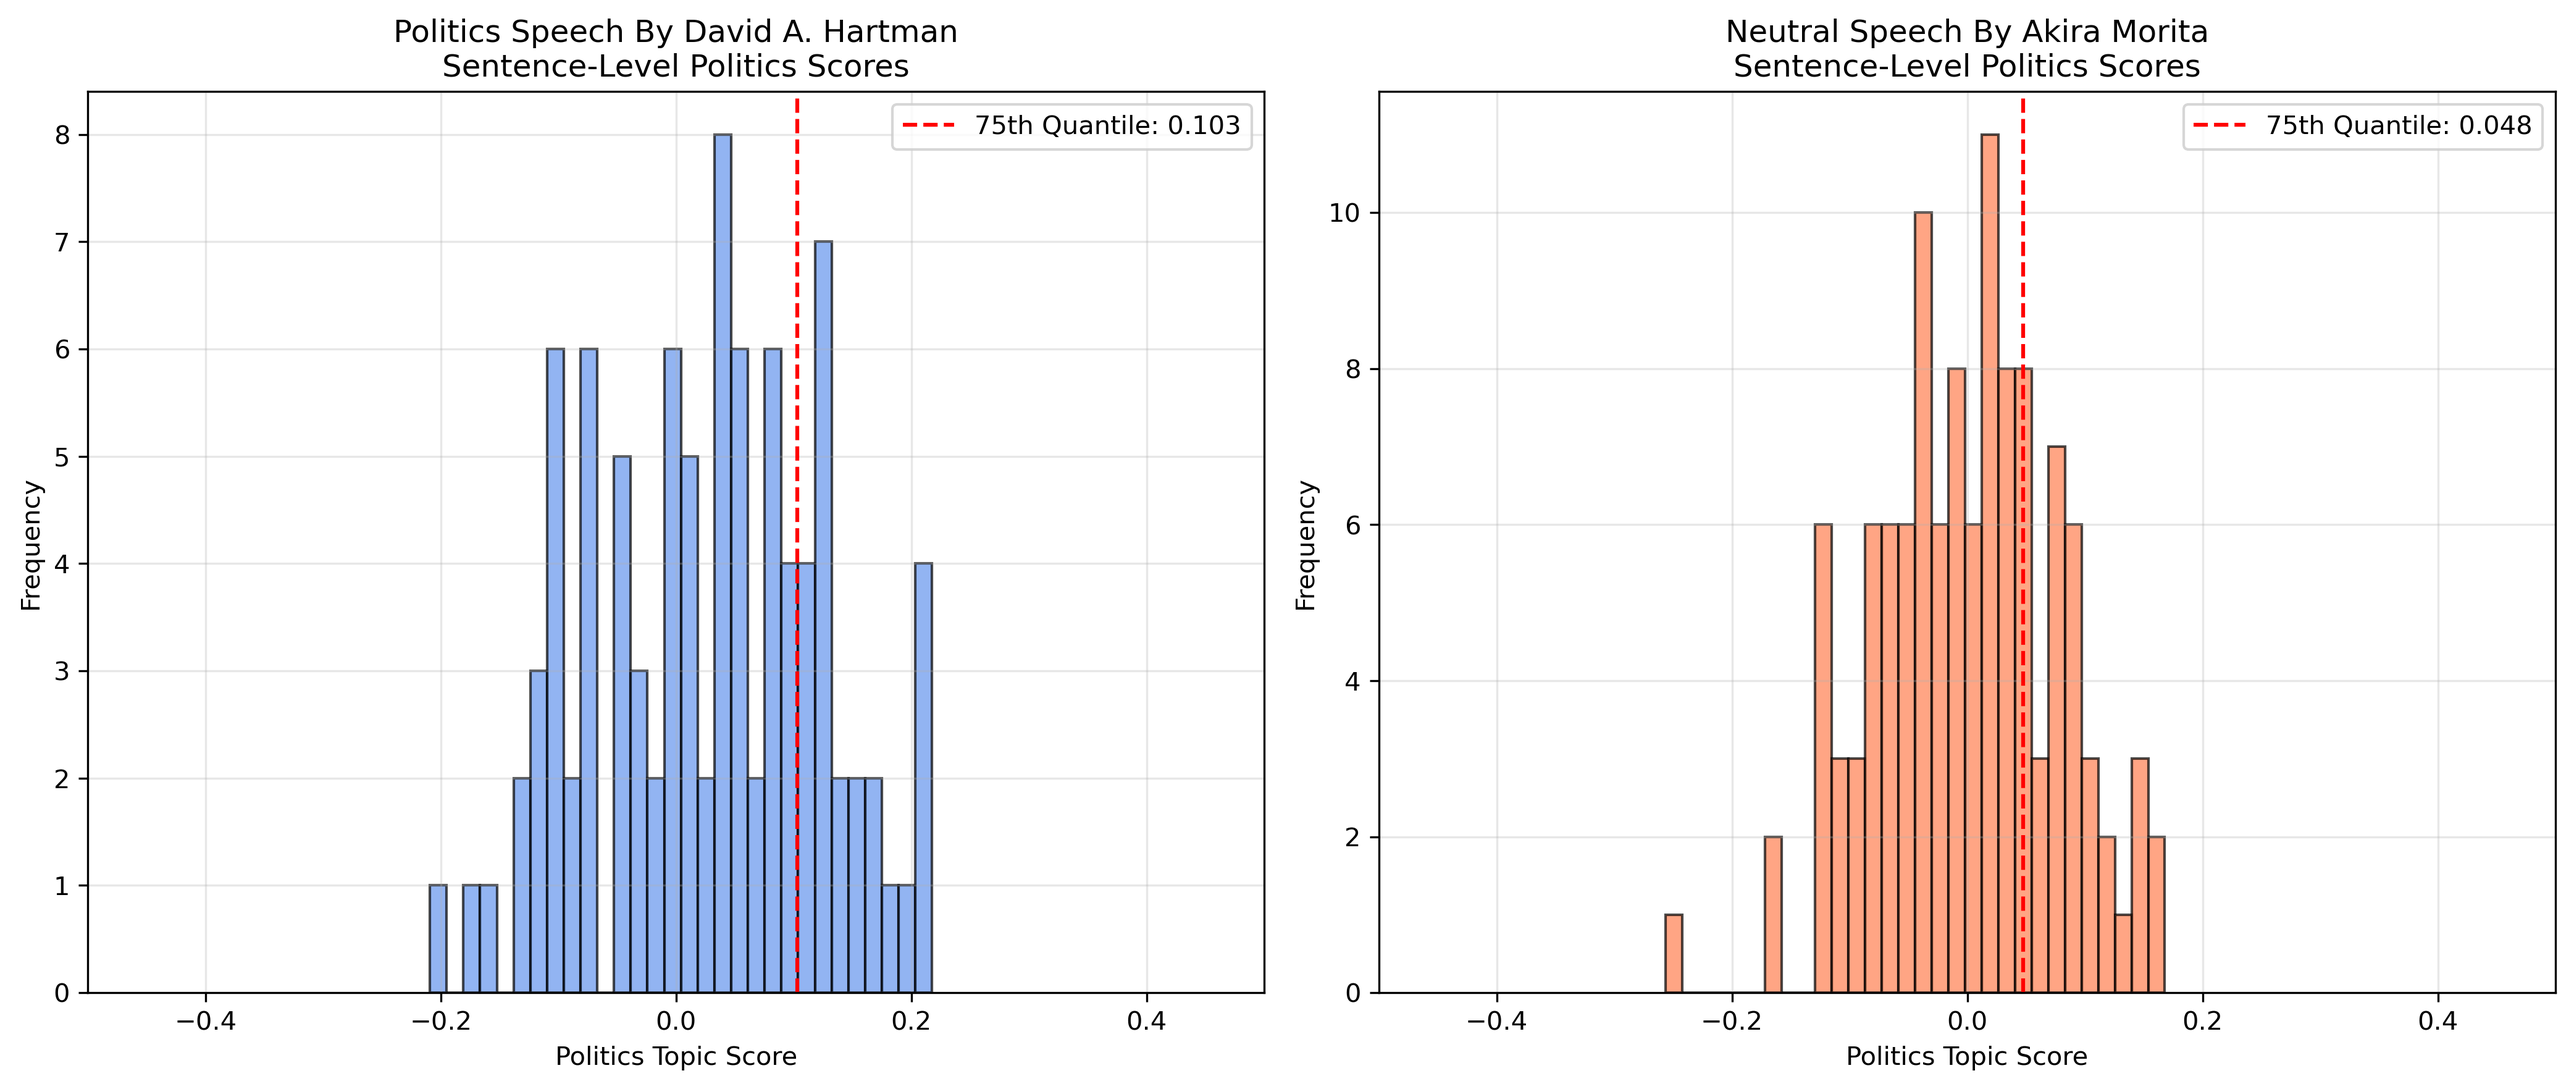
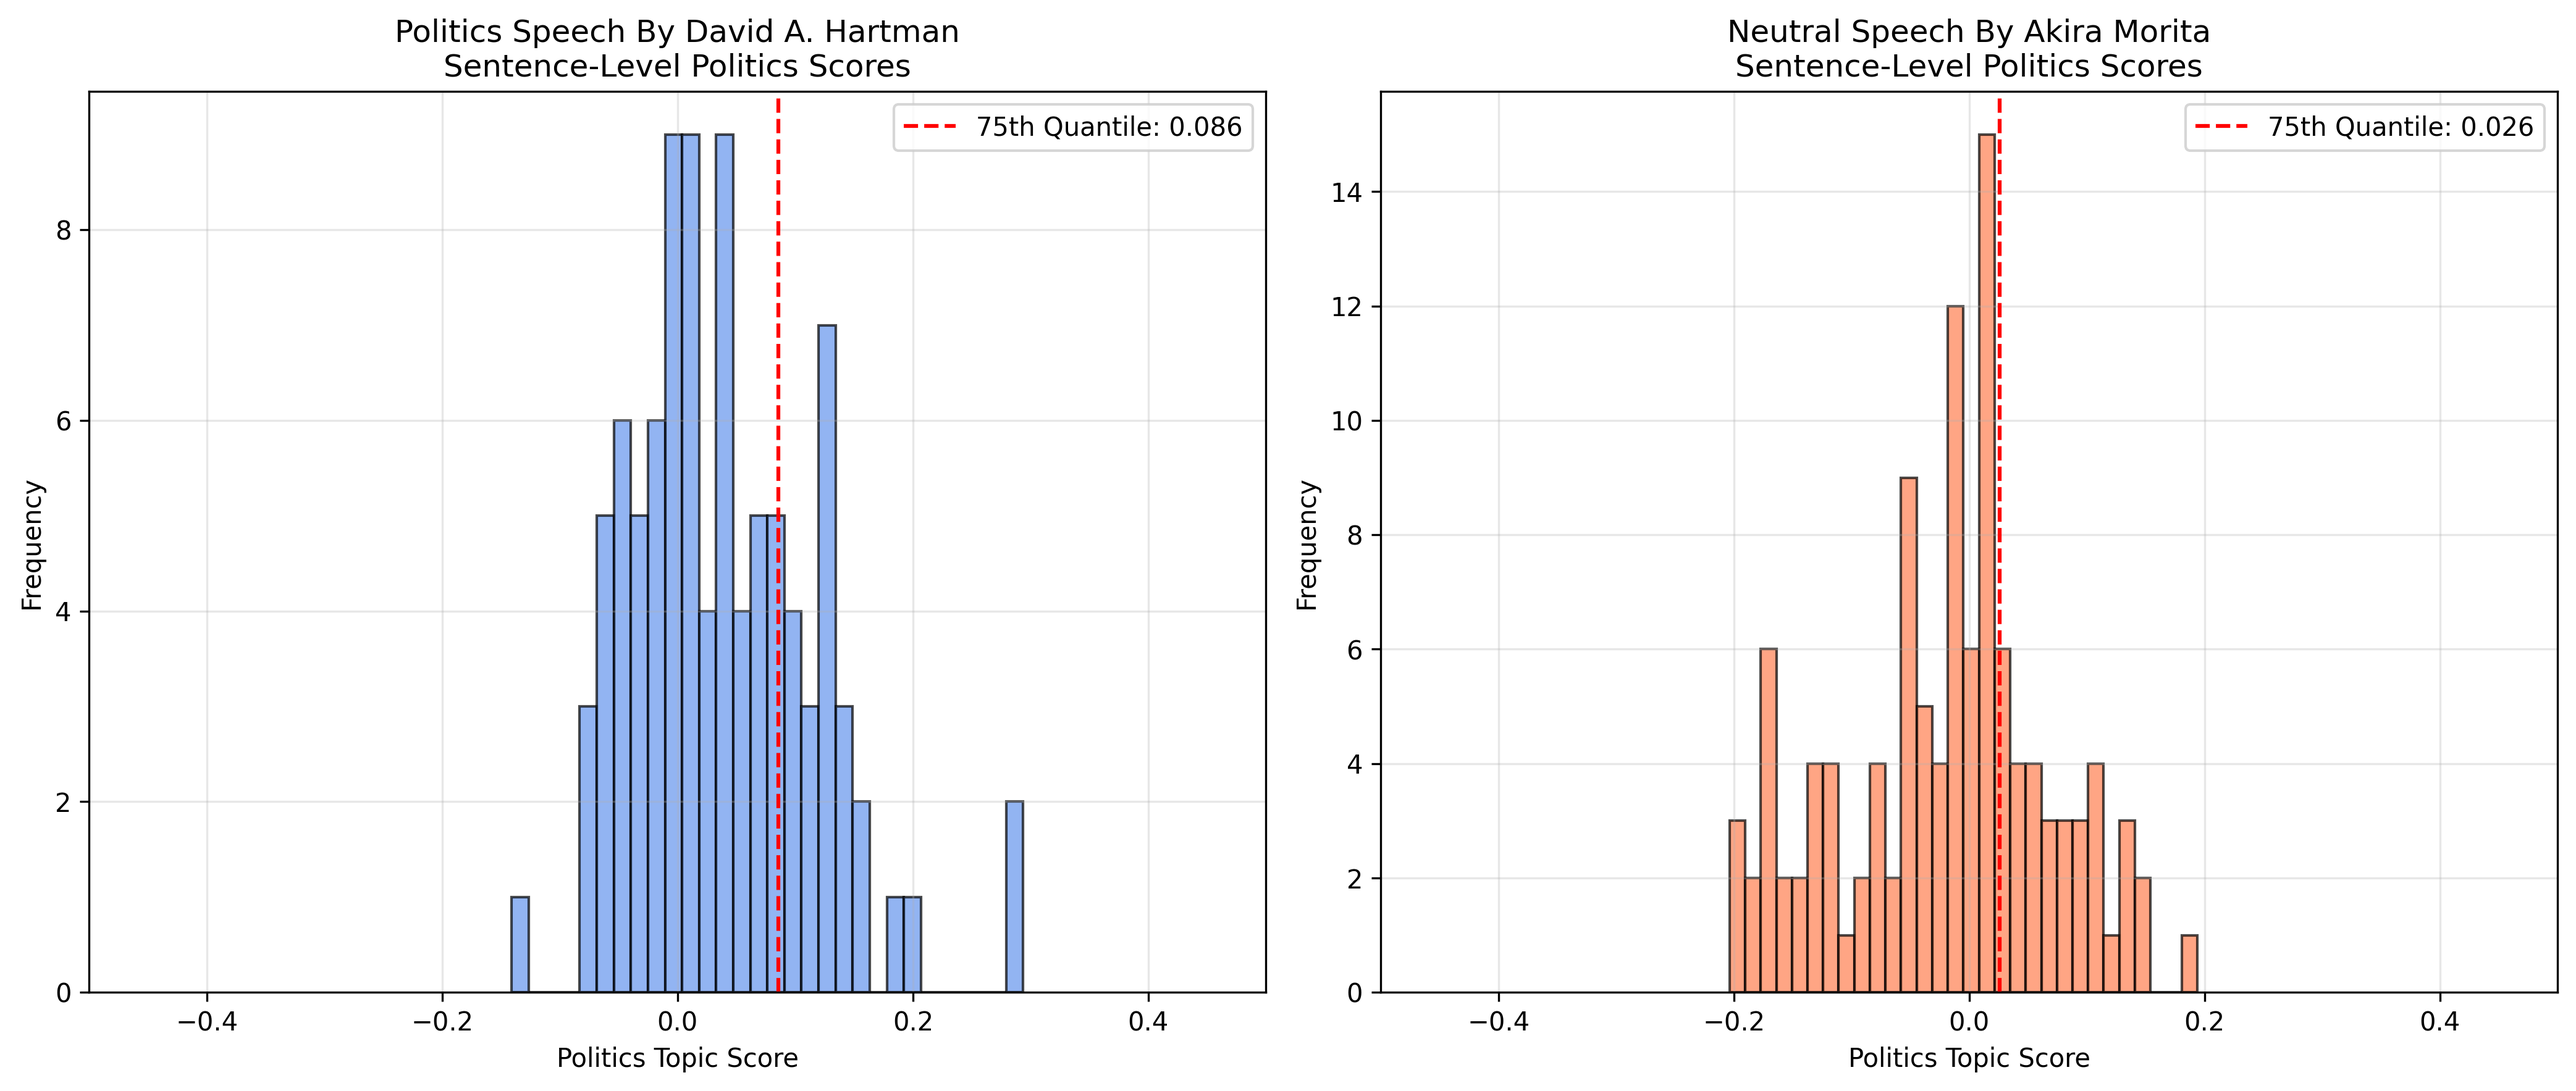
reran with old anchor sentences and deleted some print statements along witn old proportion code

diff --git a/main.py b/main.py
@@ -2,7 +2,7 @@
 # 
 # HOW TO RUN THIS SCRIPT IN VS CODE:
 #-----------------------
-# TODO: probably say how to git clone
+# 
 # 1. Open VS Code, go to File > Open Folder... , and select this projects' project folder.
 # 2. Open VSCode's integrated terminal by clicking Terminal > New Terminal, in the top menu bar.
 # 3. Install required packages by installing 'uv' (Python package installer) by pasting this into terminal:
@@ -38,25 +38,22 @@ NEW_DATA_DIR = "data/processed/new_speeches.csv"
 # Anchor sentences for each topic, used to define the topic axes in the embedding space
 # NOTE 1: Sentences were generated using ChatGPT, so they may not be perfect representations, and should be checked for accuracy and relevance to the topic.
 #  AI generated sentences should be further reviewed and validated.
-
 # NOTE 2: If wanting to add more anchors, create a new CSV file with the same format as existing anchor files (no header, sentences in the first column), then
 # add the file path to the appropriate topic in the TOPICS dictionary below, and ensure that the file is located in the correct directory.
 RELIGION_POS_DIR = "data/anchors/religion_pos_sentences.csv"
 RELIGION_NEG_DIR = "data/anchors/religion_neg_sentences.csv"
 
-# POLITICS_POS_DIR = "data/anchors/politics_pos_sentences.csv"
-# POLITICS_NEG_DIR = "data/anchors/politics_neg_sentences.csv"
+POLITICS_POS_DIR = "data/anchors/politics_pos_sentences.csv"
+POLITICS_NEG_DIR = "data/anchors/politics_neg_sentences.csv"
 
-# NOTE: kind of more like rigorous vs poor political justification 
-POLITICS_POS_DIR = "data/anchors/political_justification_pos_sentences.csv"
-POLITICS_NEG_DIR = "data/anchors/political_justification_neg_sentences.csv"
+SCIENCE_POS_DIR = "data/anchors/science_pos_sentences.csv"
+SCIENCE_NEG_DIR = "data/anchors/science_neg_sentences.csv"
 
-# SCIENCE_POS_DIR = "data/anchors/science_pos_sentences.csv"
-# SCIENCE_NEG_DIR = "data/anchors/science_neg_sentences.csv"
-
-# NOTE: examples of strong versus poor reasoning/ logical fallacies
-SCIENCE_POS_DIR = "data/anchors/scientific_justification_pos_sentences.csv" 
-SCIENCE_NEG_DIR = "data/anchors/scientific_justification_neg_sentences.csv"
+# NOTE: These anchor sentences are statistically significant, but are measuring poor versus rigorous political/scientific justtification, assumes each sentence can be measured on a spectrum of justification quality, 0 does not mean absence of political or scientific content.
+# POLITICS_POS_DIR = "data/anchors/political_justification_pos_sentences.csv"
+# POLITICS_NEG_DIR = "data/anchors/political_justification_neg_sentences.csv"
+# SCIENCE_POS_DIR = "data/anchors/scientific_justification_pos_sentences.csv" 
+# SCIENCE_NEG_DIR = "data/anchors/scientific_justification_neg_sentences.csv"
 
 # Preset speakers and years for data analysis and visualization
 RELIGION_SPKR, RELIGION_YEAR = "Michael Gold ", 1999
@@ -122,7 +119,7 @@ def main():
             TOPICS[topic]["Positive"], TOPICS[topic]["Negative"], model
         )
 
-        # NOTE: cache system, however since it's inside the loop, it's going to ask for input for each topic
+        # Cache system that's going to ask for each topic if you want to recompute scores
         cache_path = f"data/processed/{topic}_scores.pkl"
         update_scores = False
 
@@ -142,12 +139,7 @@ def main():
                 data, topic_axis, nlp, model, q=0.75
             )
 
-            # Currently not using proportions
-            # yearly_topic_proportions, yearly_avg_proportion = tm.compute_yearly_topic_proportions(
-            #     data, topic_axis, nlp, model, threshold=0.0,
-            # )
-
-            # Save both dictionaries to one file
+            # Save both dictionaries to one file for each topic
             with open(cache_path, "wb") as f:
                 pickle.dump((yearly_topic_scores, yearly_avg_score), f)
 
@@ -158,7 +150,7 @@ def main():
             with open(cache_path, "rb") as f:
                 yearly_topic_scores, yearly_avg_score = pickle.load(f)
 
-        print(f"loading {topic} example speech embeddings...")
+        print(f"Loading {topic} example speech embeddings...")
         # The embeddings for the topic speech and the neutral speech are initialized based on the specified speakers and years for each topic. These embeddings will be used for generating visualizations and computing topic scores.
         topic_embeds, neutral_embeds = embeddings.init_speech_embeds(
             nlp,
@@ -170,29 +162,20 @@ def main():
             TOPICS["Neutral"]["Year"],
         )
 
-        print(f"creating {topic} pca plot...")
+
         # PCA plot are generated to visualize distribution of sentence embeddings for topic speech in relation to topic axis.
         pca.save_pca_plot(
            topic, scalar, 2, pos_vec, neg_vec, topic_axis, topic_embeds, neutral_embeds
         )
-        print(f"saved {topic} pca plot!")
+        print(f"Created {topic} pca plot.")
 
-        # NEW: boxplot
-        print(f"creating {topic} topic scores by year boxplot...")
+
         tm.conf_boxplot(topic, yearly_topic_scores, show_trend=True, trend_method="mean") # is also calling residual plot, b/c boxplot is calculating linear trend
-        # tm.conf_boxplot(f"{topic} Positive Proportion", yearly_topic_proportions, show_trend=True, trend_method="mean",)
+        print(f"Created {topic} topic scores by year boxplot.")
 
-        # NEW: violinplot
-        print(f"creating {topic} topic scores by year violinplot...")
         tm.conf_violinplot(topic, yearly_topic_scores, show_trend=True, trend_method="mean")
+        print(f"Created {topic} topic scores by year violinplot!")
 
-        print(f"saved {topic} topic scores by year plot!")
-        # tm.conf_violin_plot_yearly(topic, yearly_topic_scores, 1999, "cornflowerblue")
-        # tm.conf_violin_plot_yearly(topic, yearly_topic_scores, 2007, "cornflowerblue")
-        # tm.conf_violin_plot_yearly(topic, yearly_topic_scores, 2012, "cornflowerblue")
-        # tm.conf_violin_plot_yearly(topic, yearly_topic_scores, 2015, "cornflowerblue")
-
-        print(f"creating {topic} histogram comparison plot...")
         # Creating histogram comparison plots comparing the distribution of sentence-level topic scores between a specified topic speech and specified neutral speech.
         tm.save_hist_comparison_plot(
           topic,
@@ -205,9 +188,7 @@ def main():
           "cornflowerblue",
            "coral",
         )
-        print("tyler the goat")
-        #tm.the_goat_tyler(topic, yearly_topic_scores)
-
+        print(f"Created {topic} histogram comparison plot.")
     print("script finished.")
 
 

diff --git a/python/model.py b/python/model.py
@@ -52,34 +52,6 @@ def compute_speech_topic_score(
     return float(np.quantile(sent_scores, q))
 
 
-def compute_speech_topic_proportion(
-    sentence_embeddings: np.ndarray | Tensor,
-    topic_vector: np.ndarray | Tensor,
-    threshold: float = 0.0,
-) -> float:
-    """
-    Computes the proportion of sentences in a speech that are above a topic threshold.
-
-    For religion:
-    - score > 0 means the sentence is more religious than neutral
-    - score <= 0 means the sentence is neutral/non-religious based on this axis
-
-    Args:
-        sentence_embeddings: Sentence embeddings for one speech.
-        topic_vector: Topic axis vector.
-        threshold: Cutoff for counting a sentence as topic-positive. Default is 0.
-
-    Returns:
-        float: Proportion of sentences above the threshold.
-    """
-
-    sent_scores = cosine_similarity(
-        sentence_embeddings, topic_vector.reshape(1, -1)
-    ).flatten()
-
-    return float(np.mean(sent_scores > threshold))
-
-
 def compute_yearly_topic_scores(
     conference_data: pd.DataFrame,
     topic_vector: np.ndarray | Tensor,
@@ -125,48 +97,6 @@ def compute_yearly_topic_scores(
         yearly_topic_avg_score[year] = np.mean(topic_scores)
     return yearly_topic_scores, yearly_topic_avg_score
 
-
-def compute_yearly_topic_proportions(
-    conference_data: pd.DataFrame,
-    topic_vector: np.ndarray | Tensor,
-    nlp: Language,
-    model: SentenceTransformer,
-    threshold: float = 0.0,
-) -> tuple[dict, dict]:
-    """
-    Computes the proportion of positive topic sentences for each speech,
-    then groups those proportions by year.
-
-    Returns:
-        yearly_topic_proportions:
-            {year: [speech_prop1, speech_prop2, ...]}
-
-        yearly_avg_proportion:
-            {year: average proportion across speeches in that year}
-    """
-
-    yearly_topic_proportions = {}
-    yearly_avg_proportion = {}
-
-    for year, group in conference_data.groupby("cyear"):
-        print(f"computing positive proportion for year {year}...", flush=True)
-
-        topic_proportions = (
-            group["speech"]
-            .apply(
-                lambda x: compute_speech_topic_proportion(
-                    embeddings.get_sent_embeds(embeddings.split_speech(x, nlp), model),
-                    topic_vector,
-                    threshold=threshold,
-                )
-            )
-            .to_list()
-        )
-
-        yearly_topic_proportions[year] = topic_proportions
-        yearly_avg_proportion[year] = np.mean(topic_proportions)
-
-    return yearly_topic_proportions, yearly_avg_proportion
 
 
 def compute_sent_level_topic_score_dist(
